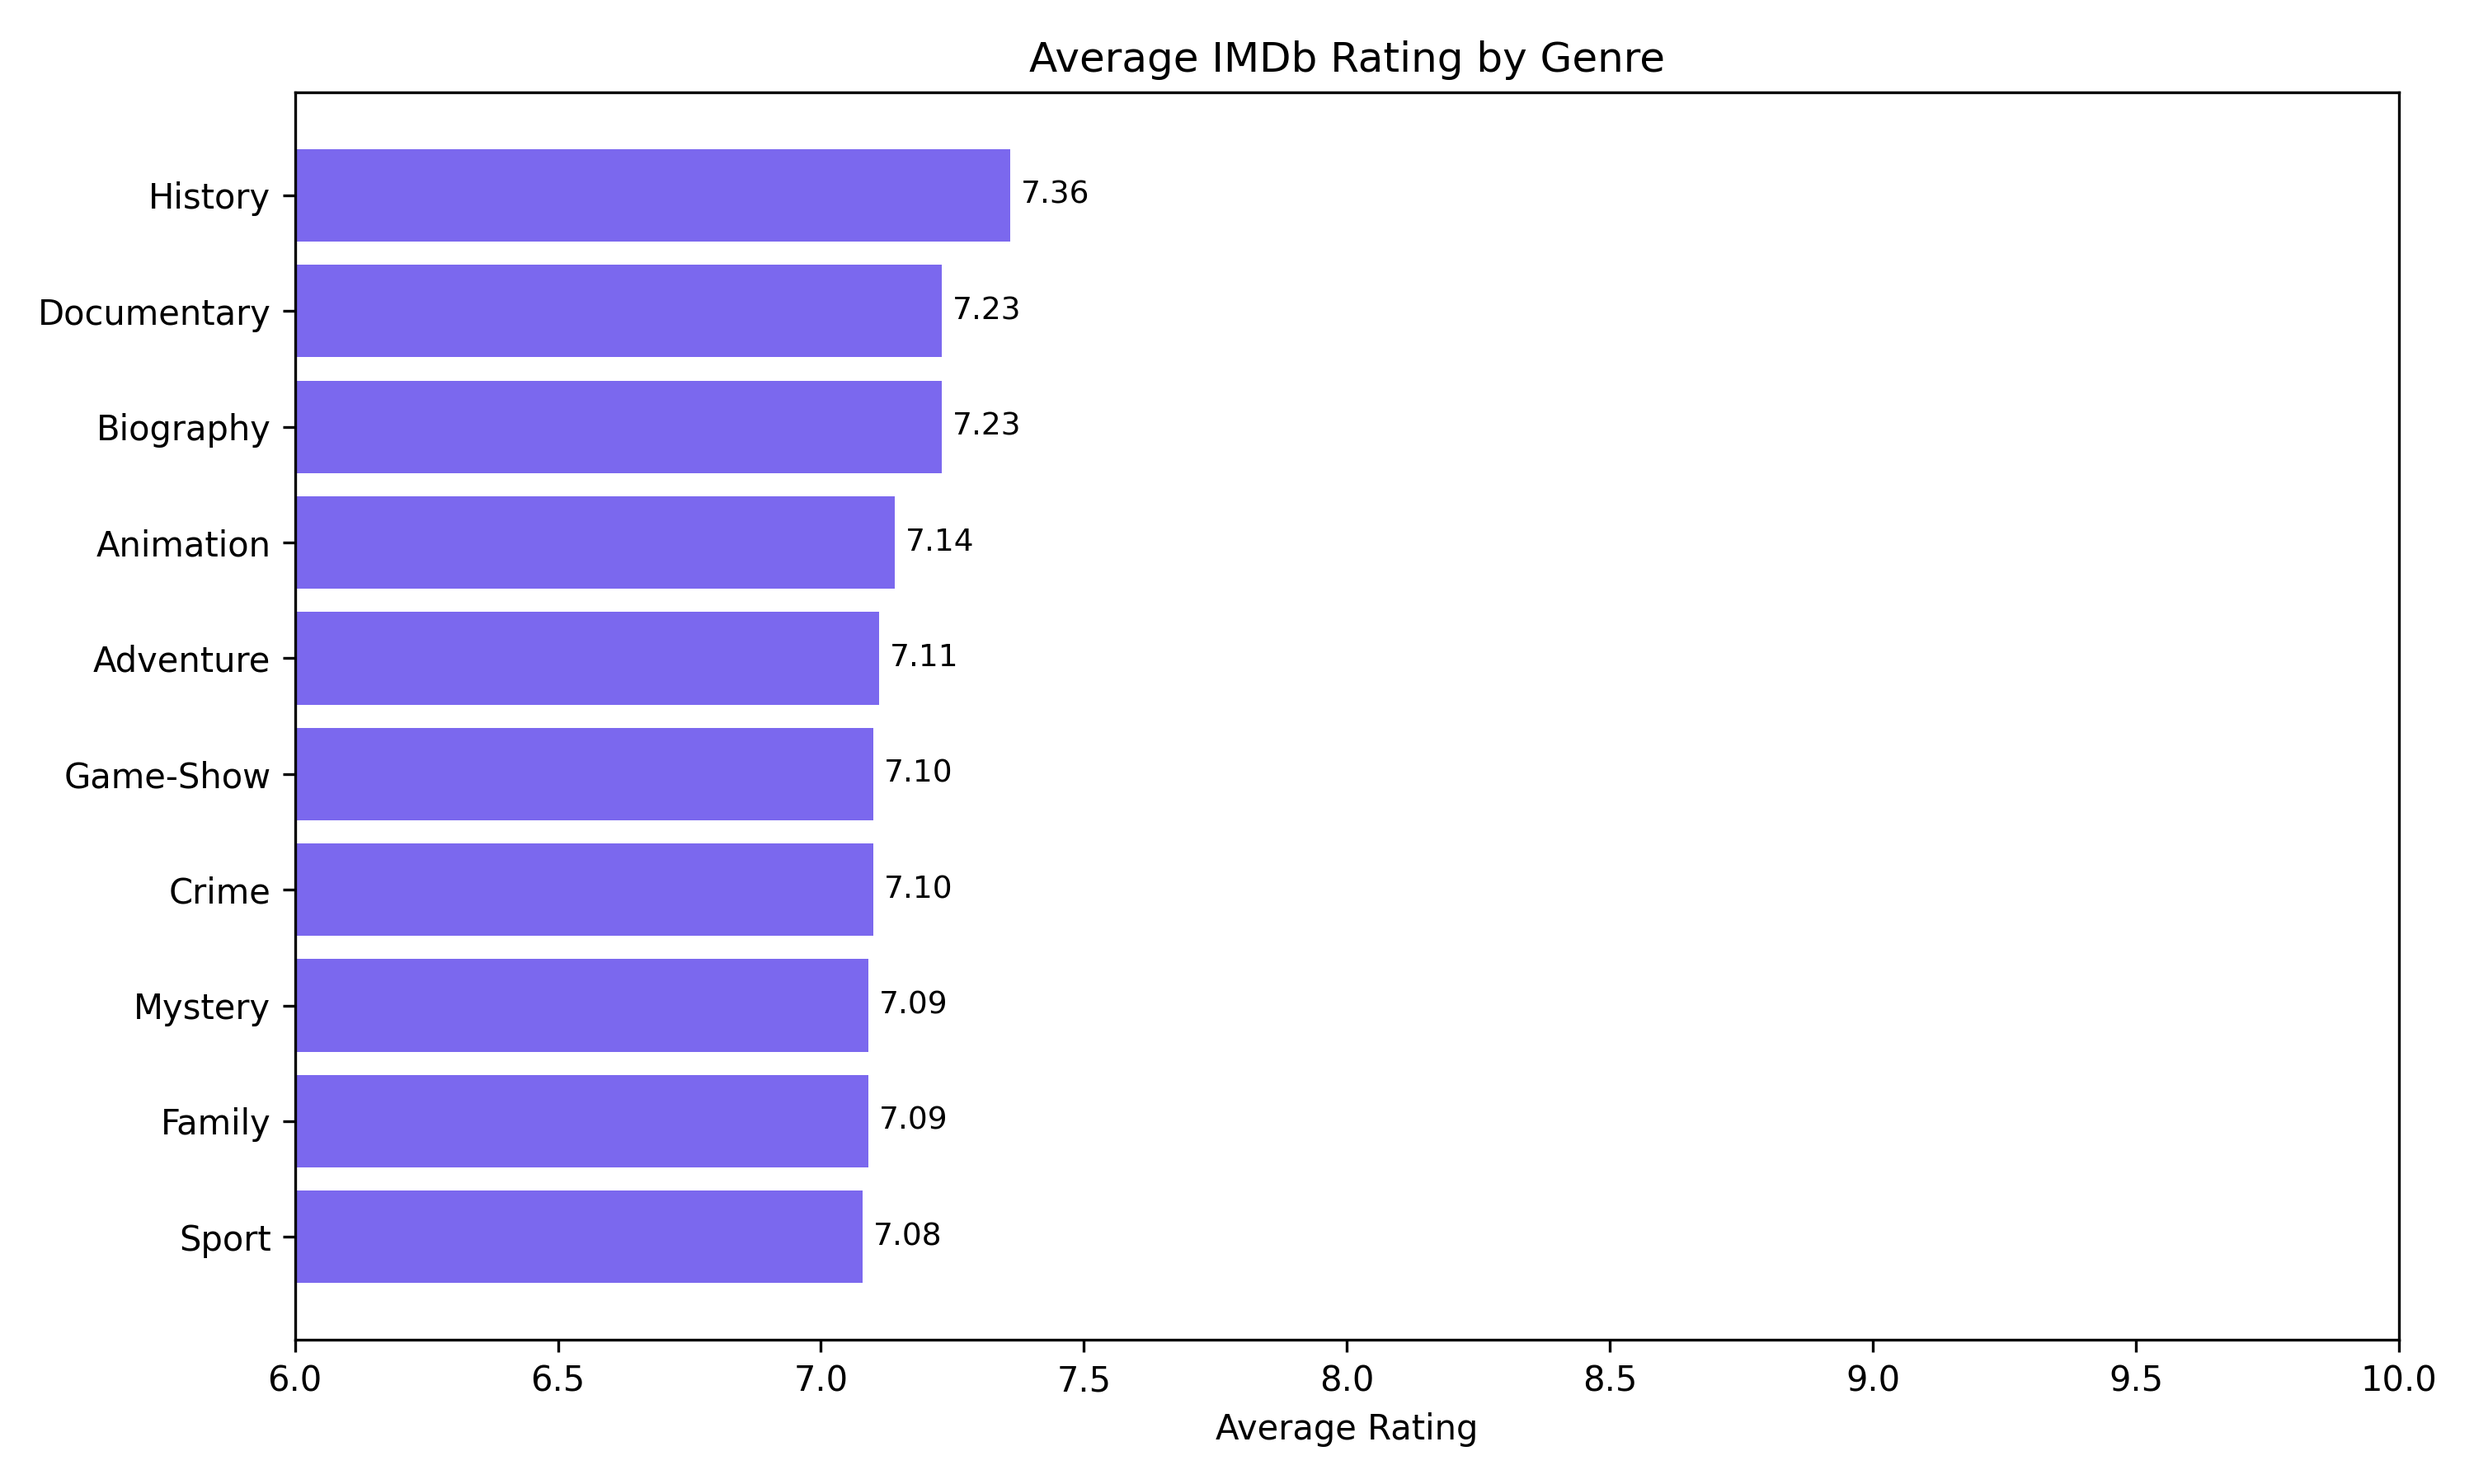
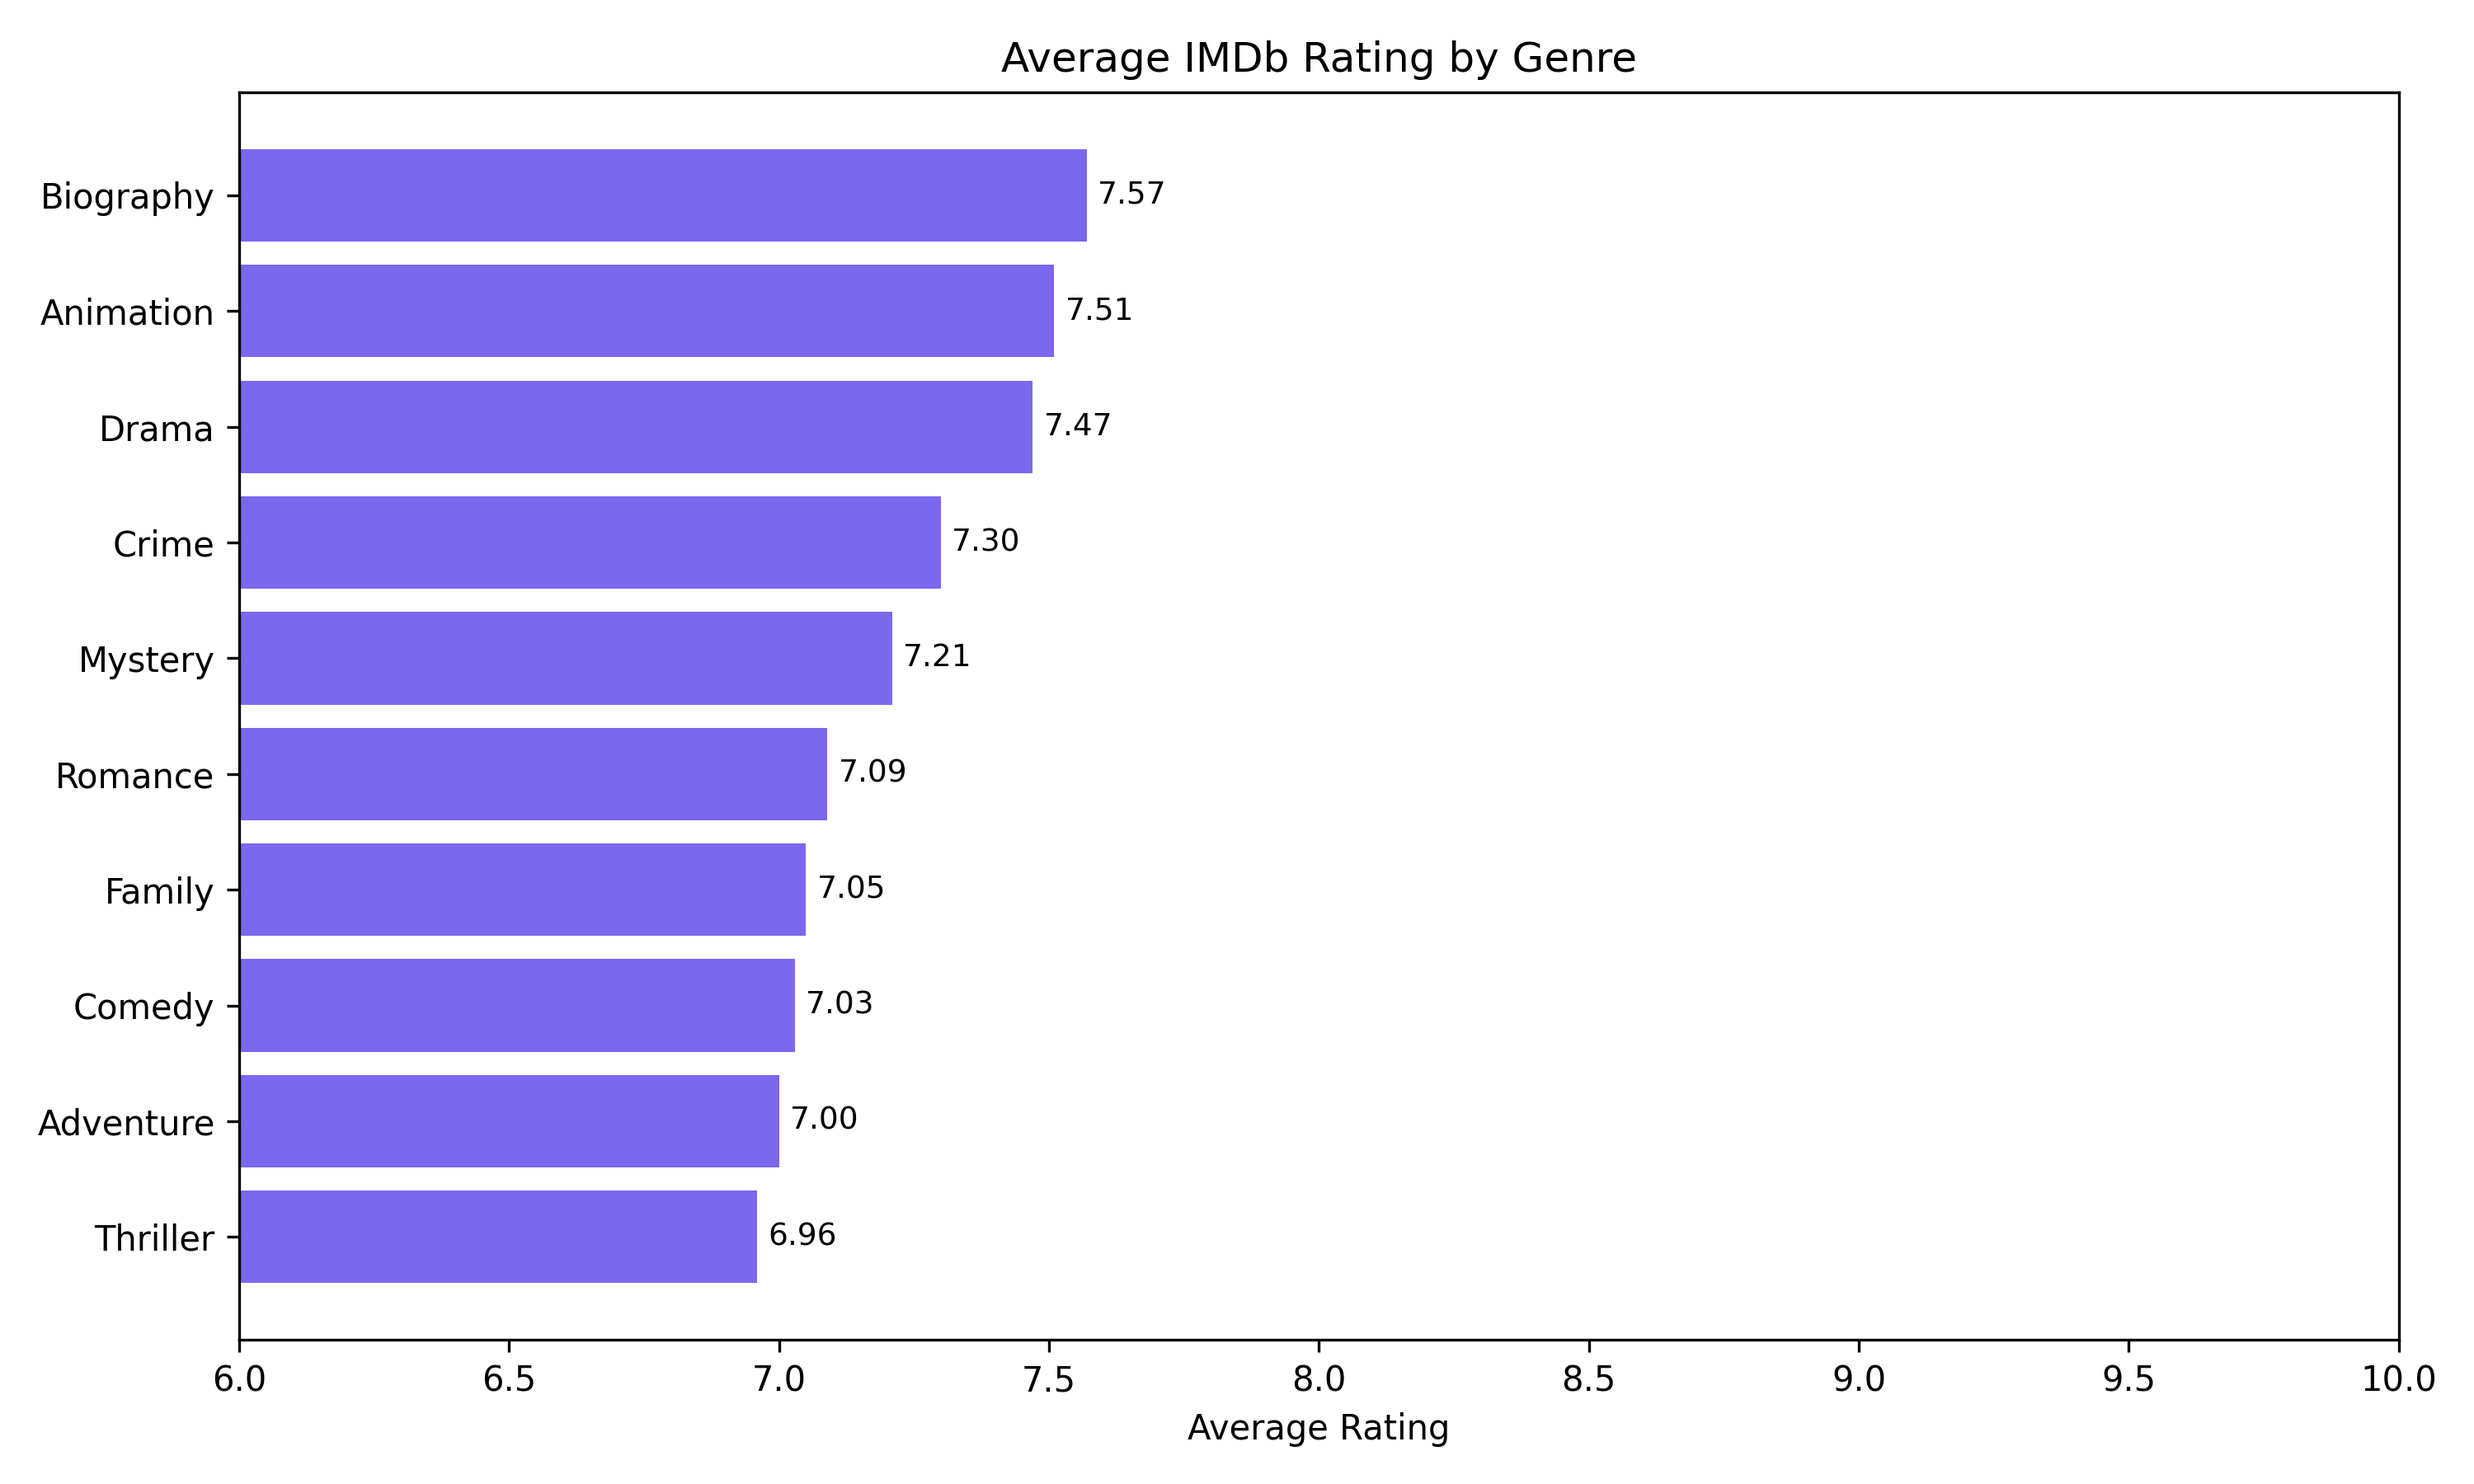
change top genres

diff --git a/sql/general_query.py b/sql/general_query.py
@@ -27,12 +27,10 @@ SELECT titleType, round(avg(runtimeMinutes),2) as average
 FROM `imdb-dataset-453510.IMDb_dataset.title_basics` 
 where runtimeMinutes != 0 
 group by titleType
-
 """
 
 # Top 10 Genres by Average Rating
 query_top_genres = """
-
 SELECT 
   genre,
   COUNT(*) AS count,
@@ -43,9 +41,11 @@ FROM (
   JOIN `imdb-dataset-453510.IMDb_dataset.title_ratings` AS r
     ON r.tconst = t.tconst
   WHERE t.genres IS NOT NULL
+  and r.numVotes >=100000
 )
 JOIN UNNEST(SPLIT(genres, ',')) AS genre
 GROUP BY genre
+having count(*) >=100
 ORDER BY avg_rating DESC
 LIMIT 10;
 """

diff --git a/sql/ratings_analys_query.py b/sql/ratings_analys_query.py
@@ -1,5 +1,5 @@
 # ⭐ 2. Rating analysis
-# test
+
 # top films
 query_top_films = """
 SELECT 
